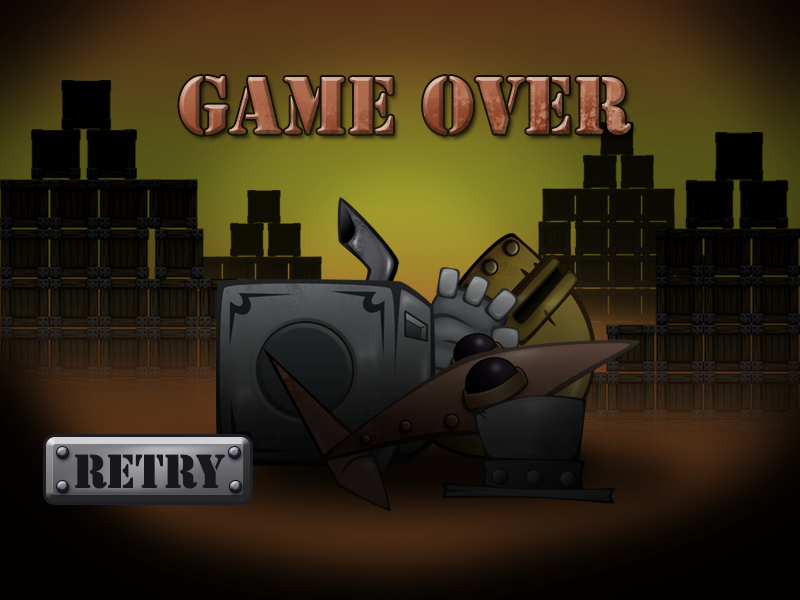
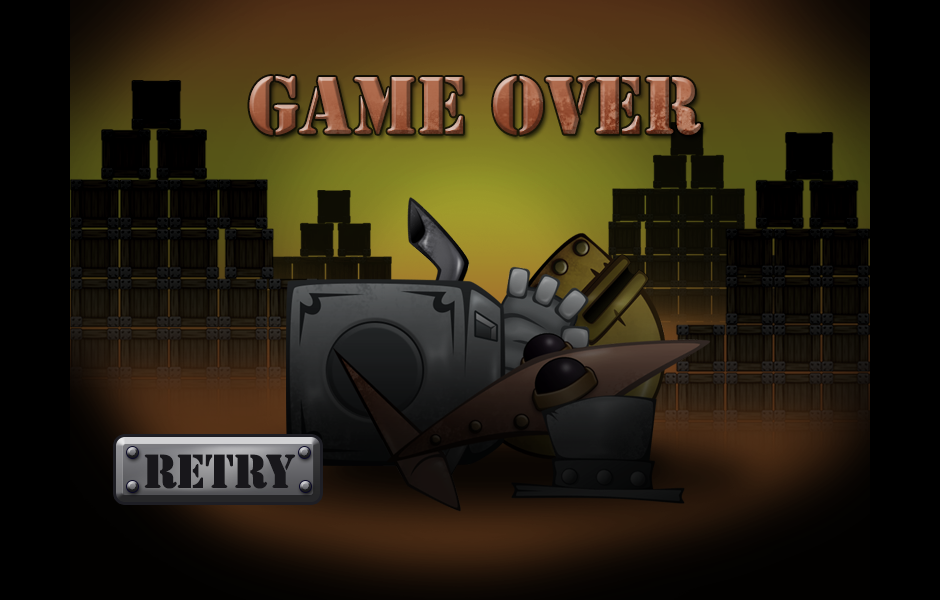
Resizing gameover image and fixing its button

diff --git a/game/js/7_Mouse.js b/game/js/7_Mouse.js
@@ -57,7 +57,7 @@ function Mouse() {
 		}
 		//if endgame
 		if(state == STATE_ENDGAME){
-			if(this.mx > 43+120 && this.mx < 43+120+210 && this.my > 434 && this.my < 510){
+			if(this.mx > 121+120 && this.mx < 121+120 && this.my > 435 && this.my < 435+70){
 				refreshPage();
 			}
 		}
